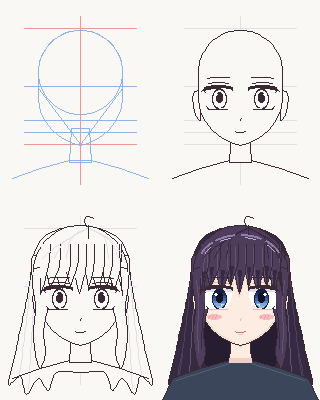
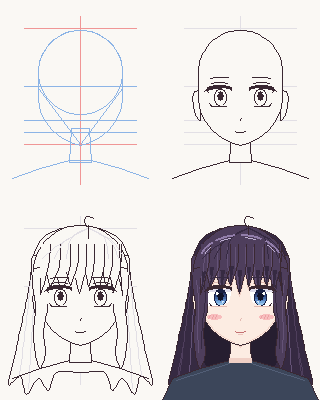
Face study: slightly smaller eyes
Claude-Session: https://claude.ai/code/session_0155yoUibrhMAmrpcv8V9b9L

diff --git a/draw_face_study.py b/draw_face_study.py
@@ -142,8 +142,8 @@ def eye(pen, cx, flip, color):
     X = lambda dx: round(pen.ox + (cx * K) + s * dx)
     Y = lambda dy: round(pen.oy + (EYE_Y + 1) * K + dy)
     d = pen.d
-    w = 13                                      # half-width in hi-res pixels
-    h_top, h_bot = 0, 20
+    w = 11                                      # half-width in hi-res pixels
+    h_top, h_bot = 0, 17
     # eye opening shape: flat-ish top, rounded bottom
     def inside(dx, dy):
         if dy < 1 or dy > h_bot:
@@ -151,7 +151,7 @@ def eye(pen, cx, flip, color):
         t = dy / h_bot
         half = w * math.sqrt(max(0.0, 1 - max(0.0, (t - 0.45) / 0.55) ** 2))
         return -w + (1 if dy < 3 else 0) <= dx <= half
-    icx, icy, irx, iry = 1, 10.5, 7.5, 10.5     # iris ellipse
+    icx, icy, irx, iry = 1, 9, 6.5, 9           # iris ellipse
     for dy in range(1, h_bot + 1):
         for dx in range(-w, w + 1):
             if not inside(dx, dy):
@@ -163,7 +163,7 @@ def eye(pen, cx, flip, color):
                     c = IRIS[min(int(dy / h_bot * len(IRIS)), len(IRIS) - 1)]
                     if ((dx - icx) / irx) ** 2 + ((dy - icy) / iry) ** 2 > 0.78:
                         c = IRIS[0]                             # dark rim
-                    if ((dx - icx) / 3.6) ** 2 + ((dy - 9) / 5.5) ** 2 <= 1:
+                    if ((dx - icx) / 3.1) ** 2 + ((dy - 7.5) / 4.6) ** 2 <= 1:
                         c = PUPIL
                     if dy <= 4:
                         c = IRIS[0]                             # lid shadow
@@ -171,15 +171,15 @@ def eye(pen, cx, flip, color):
                 c = BG
                 if in_iris and ((dx - icx) / irx) ** 2 + ((dy - icy) / iry) ** 2 > 0.72:
                     c = LINE
-                if ((dx - icx) / 3.6) ** 2 + ((dy - 9) / 5.5) ** 2 <= 1:
+                if ((dx - icx) / 3.1) ** 2 + ((dy - 7.5) / 4.6) ** 2 <= 1:
                     c = LINE
             d.point((X(dx), Y(dy)), fill=c)
     # highlights
     hl = WHITE
-    for dx, dy in ((-2, 5), (-3, 5), (-2, 6), (-3, 6), (-2, 7), (-3, 7), (-1, 6), (-4, 6)):
+    for dx, dy in ((-2, 4), (-3, 4), (-2, 5), (-3, 5), (-2, 6), (-3, 6), (-1, 5)):
         d.point((X(dx), Y(dy)), fill=hl)
     if color:
-        for dx, dy in ((3, 16), (4, 16), (3, 17), (5, 16)):
+        for dx, dy in ((3, 13), (4, 13), (3, 14)):
             d.point((X(dx), Y(dy)), fill=(210, 230, 250))
     # thick upper lash, arched, heaviest and flicked at the outer corner
     for dx in range(-w - 1, w + 2):
@@ -207,8 +207,8 @@ def eye(pen, cx, flip, color):
 
 
 def features(pen, color):
-    eye(pen, CX - 11, False, color)
-    eye(pen, CX + 11, True, color)
+    eye(pen, CX - 10.5, False, color)
+    eye(pen, CX + 10.5, True, color)
     nose = SKIN_SHADE2 if color else LINE
     pen.line([(CX + 0.5, NOSE_Y - 1), (CX, NOSE_Y)], fill=nose)
     m = LIP if color else LINE
